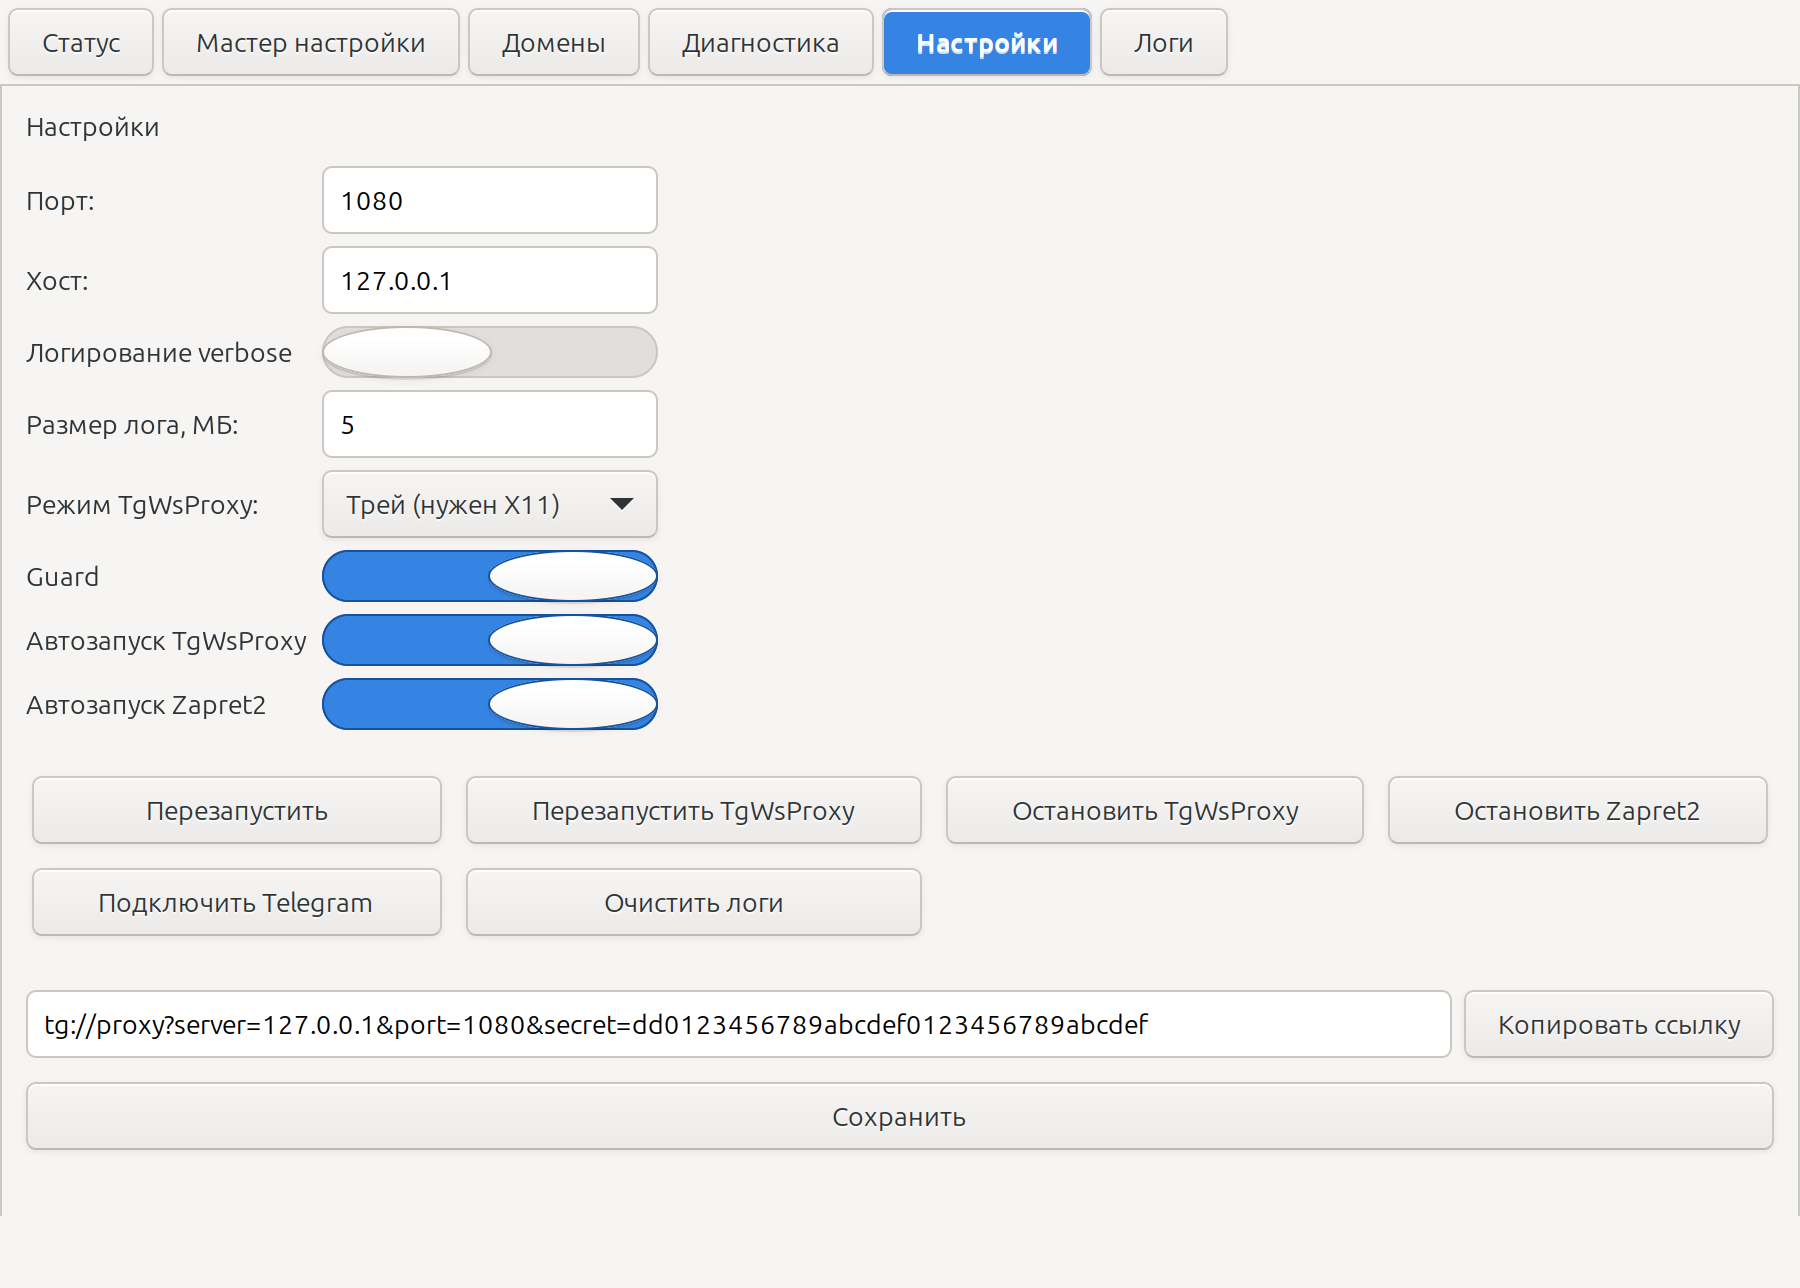
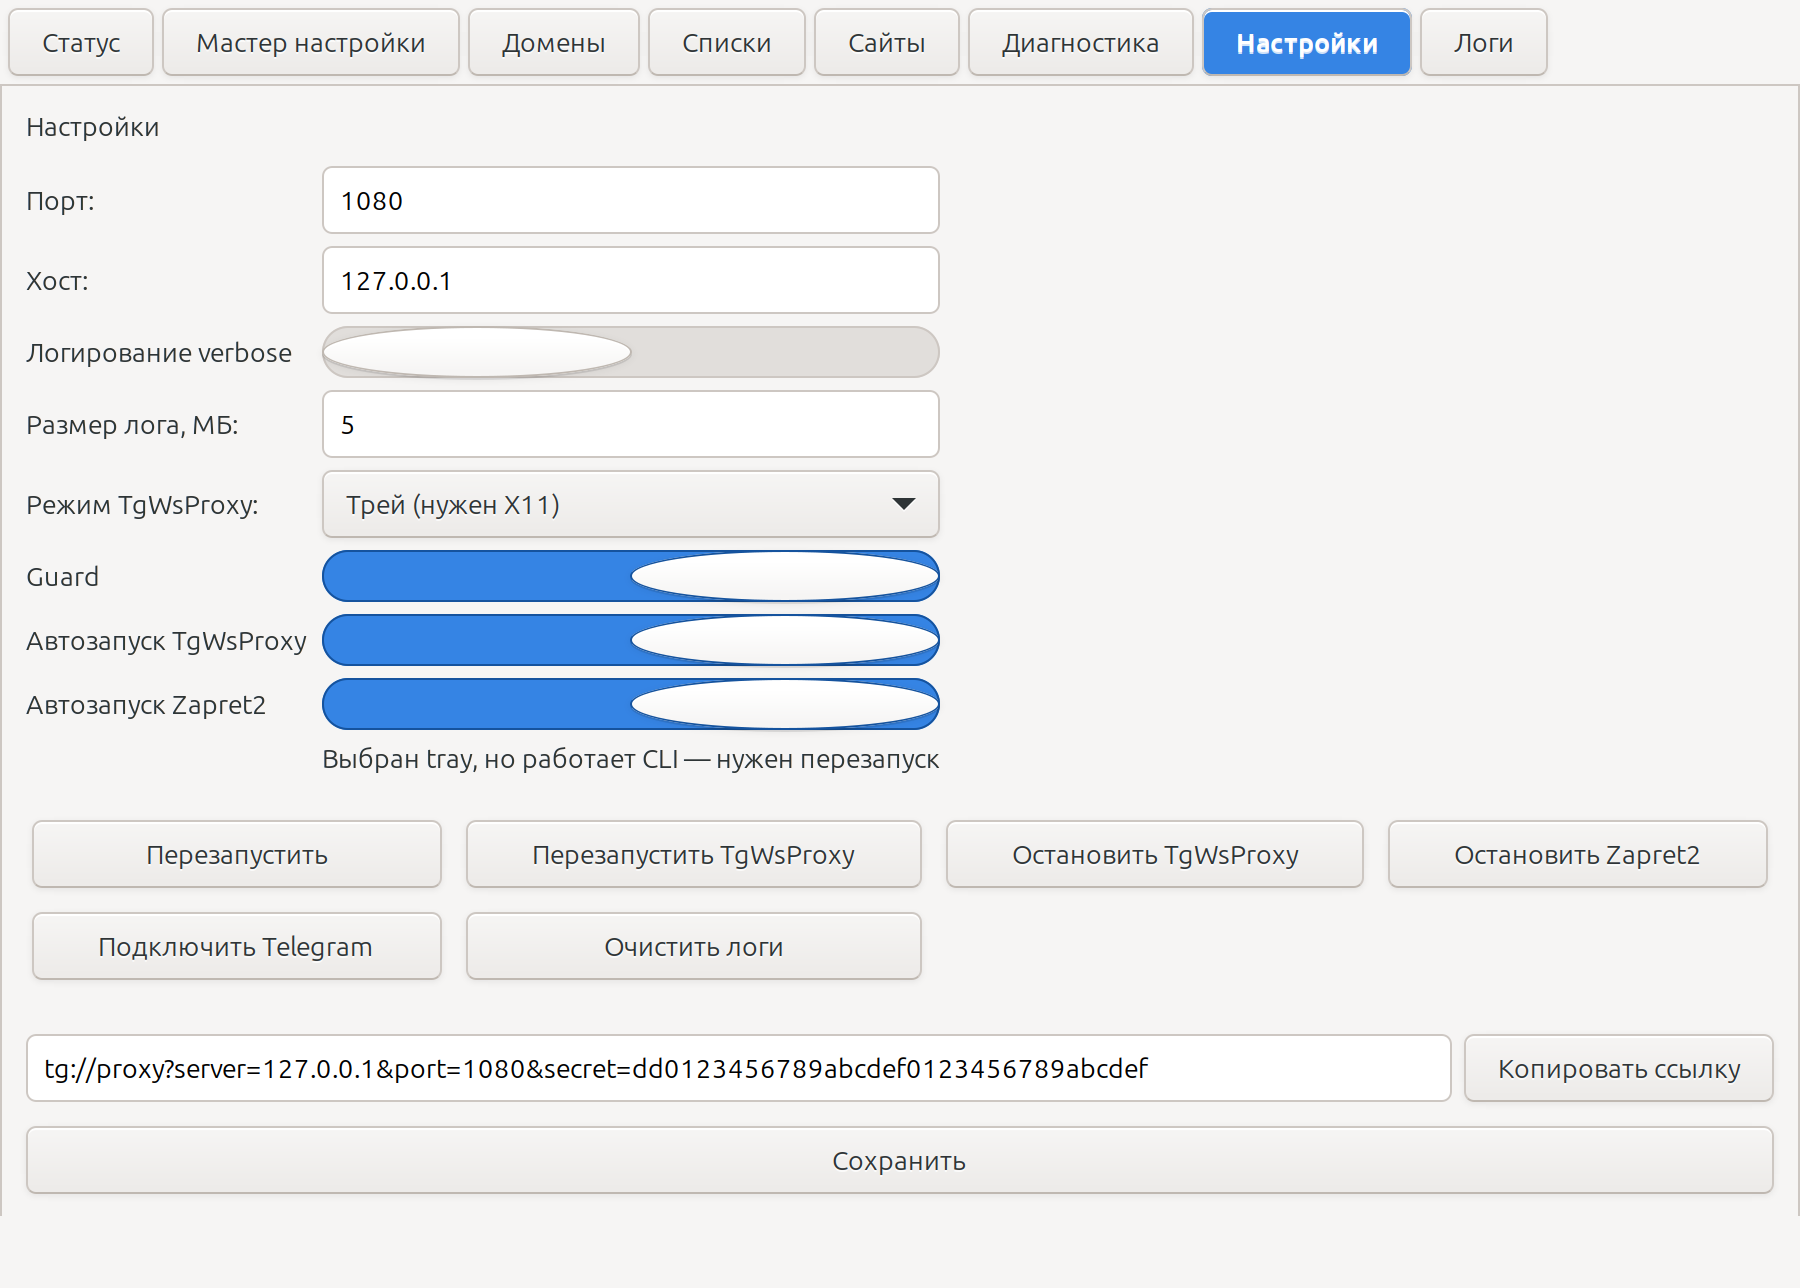
README: screenshots for Lists and Site check

diff --git a/README.md b/README.md
@@ -9,12 +9,16 @@
 ## Как это выглядит
 
 Панель — это одно окно с закреплёнными разделами: **Статус**, **Мастер настройки**,
-**Домены**, **Диагностика**, **Настройки**, **Логи**. Плюс иконка в трее, которая
-меняет цвет по состоянию системы.
+**Домены**, **Списки**, **Сайты**, **Диагностика**, **Настройки**, **Логи**.
+Плюс иконка в трее, которая меняет цвет по состоянию системы.
 
 | Мастер настройки | Настройки |
 |---|---|
 | ![Мастер](docs/screenshot-wizard.png) | ![Настройки](docs/screenshot-settings.png) |
+
+| Списки (hostlist) | Проверка сайта |
+|---|---|
+| ![Списки](docs/screenshot-hostlist.png) | ![Сайты](docs/screenshot-sitecheck.png) |
 
 | Диагностика |
 |---|
